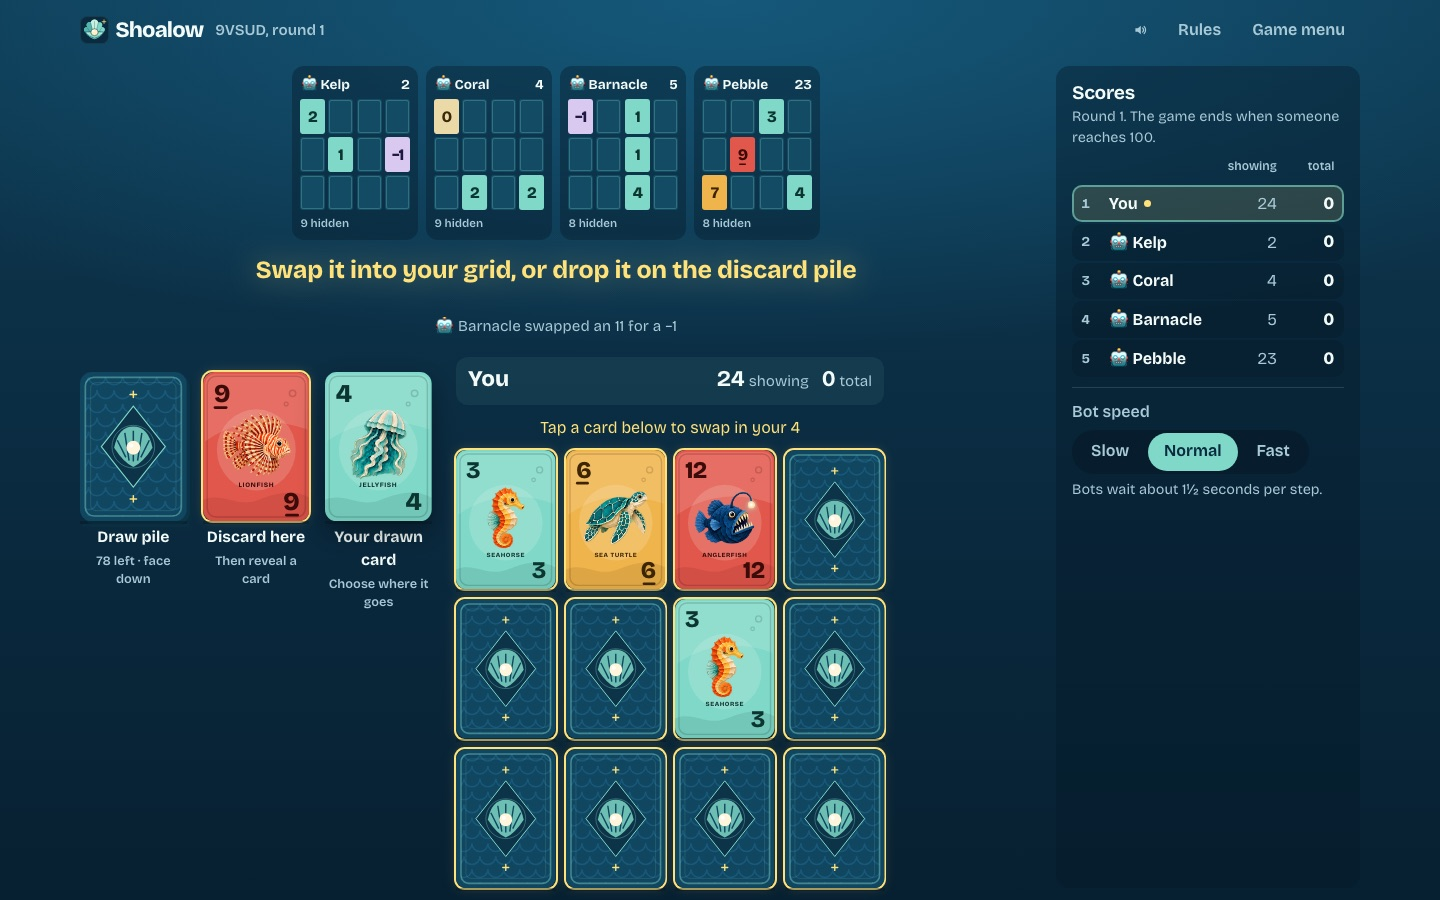
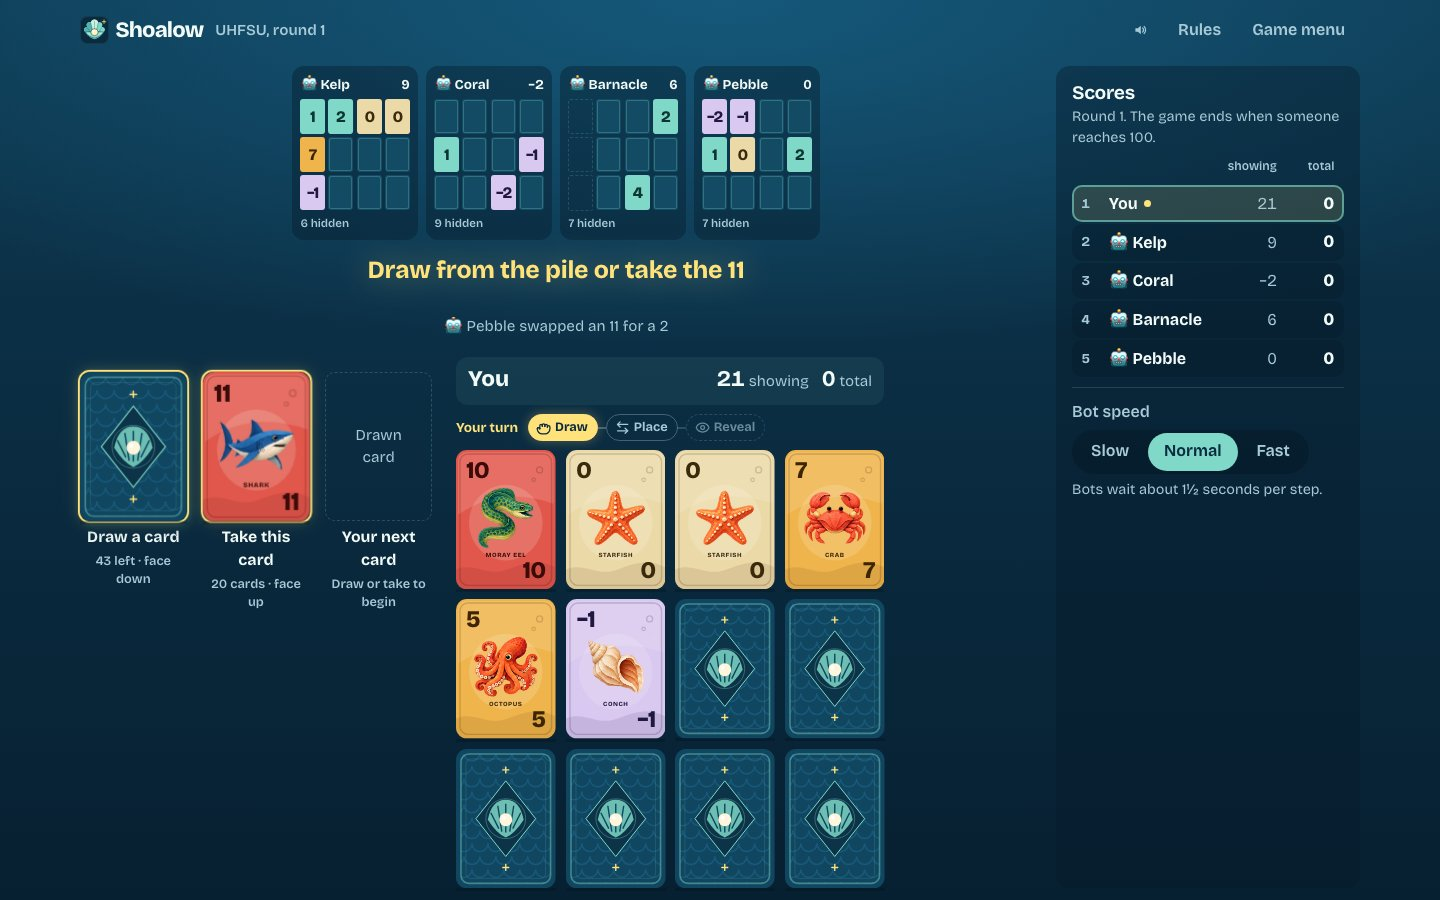
build: retake README screenshots from a real game
`mise run screenshots` starts the server on a temporary data directory,
sits down with bots and plays until a lively moment on your turn. It
shoots the table in Chromium and on an iPhone in WebKit, plus the
lobby's house rules and the first cards. The screenshots now show the
turn steps, play hints and pile counts added since launch.

diff --git a/apps/web/scripts/screenshots.ts b/apps/web/scripts/screenshots.ts
@@ -1,0 +1,127 @@
+/**
+ * Takes the README's screenshots from a real game: starts the server on a temporary data
+ * directory, sits down with a few bots and plays until a lively moment on your turn. The
+ * table is shot in Chromium on a computer and in WebKit on an iPhone, plus the lobby's house
+ * rules and the first cards. Run with `mise run screenshots`; it builds the client first.
+ */
+import { mkdtempSync, rmSync } from "node:fs";
+import { tmpdir } from "node:os";
+import { join } from "node:path";
+import { type Browser, chromium, devices, type Page, webkit } from "@playwright/test";
+import { createServer } from "../../server/src/app.ts";
+
+const out = (name: string) => new URL(`../../../docs/screenshots/${name}`, import.meta.url).pathname;
+const dataDir = mkdtempSync(join(tmpdir(), "shoalow-shots-"));
+const app = createServer({
+  port: 0,
+  hostname: "127.0.0.1",
+  dataDir,
+  staticDir: new URL("../dist", import.meta.url).pathname,
+  botDelayMs: 150,
+  limits: { messages: { burst: 10_000, perSecond: 10_000 } },
+});
+const base = app.url.origin;
+
+/** Creates a table with the given bots, waiting in the lobby. */
+async function sitDown(page: Page, bots: ("easy" | "normal")[]): Promise<void> {
+  await page.goto(base);
+  await page.getByLabel("Your name").fill("Anna");
+  await page.getByRole("button", { name: "Create a table" }).click();
+  for (const level of bots) await page.getByRole("button", { name: `Add ${level} bot` }).click();
+  await page.locator(".seats li").nth(bots.length).waitFor();
+}
+
+/**
+ * Plays sensible moves until it is our turn to choose a pile, at least `revealed` of our
+ * cards are face up and the table has had `turns` turns, so the shot shows a game under way.
+ */
+async function playUntilShot(page: Page, revealed: number, turns: number): Promise<void> {
+  const mine = page.locator("section.mine button.card.selectable");
+  const faceUp = page.locator("section.mine .card:not(.down)");
+  const hidden = page.locator("section.mine button.card.selectable.down");
+  let ourTurns = 0;
+  const nextRound = page.getByRole("button", { name: /^Start round/ });
+  for (let i = 0; i < 4000; i++) {
+    if (await nextRound.isVisible()) {
+      await nextRound.click().catch(() => {});
+      continue;
+    }
+    const prompt = (await page.locator(".prompt").textContent()) ?? "";
+    const choosing = /Draw from the pile or take the/.test(prompt);
+    const lastTurns = prompt.startsWith("Last turn");
+    if (choosing && !lastTurns && (await faceUp.count()) >= revealed && ourTurns >= turns) return;
+    if ((await mine.count()) === 0 && !choosing) {
+      await page.waitForTimeout(40);
+      continue;
+    }
+    if (choosing) {
+      ourTurns += 1;
+      await page
+        .locator('[data-anchor="deck"] button.card')
+        .click({ force: true, timeout: 1000 })
+        .catch(() => {});
+    } else {
+      // Reveal face-down cards until enough show, then swap into face-up ones to keep the round going.
+      const target = (await faceUp.count()) < revealed && (await hidden.count()) > 0 ? hidden.first() : mine.first();
+      await target.click({ force: true, timeout: 1000 }).catch(() => {});
+    }
+  }
+  throw new Error("never reached a good moment for the screenshot");
+}
+
+async function settle(page: Page): Promise<void> {
+  await page.mouse.move(1, 1);
+  await page.waitForTimeout(1500);
+}
+
+async function desktop(browser: Browser): Promise<void> {
+  const page = await browser.newPage({ viewport: { width: 1440, height: 900 } });
+  await sitDown(page, ["normal", "easy", "normal", "normal"]);
+  await page.locator("label", { hasText: "Counts" }).click();
+  await settle(page);
+  await page.locator("section.settings").screenshot({ path: out("house-rules.jpg"), type: "jpeg", quality: 85 });
+  await page.getByRole("button", { name: "Start with 5 players" }).click();
+  await playUntilShot(page, 6, 4);
+  await settle(page);
+  await page.screenshot({ path: out("table-desktop.jpg"), type: "jpeg", quality: 85 });
+
+  await page.goto(`${base}/cards`);
+  await settle(page);
+  const cards = page.locator("section.cards");
+  const box = await cards.boundingBox();
+  const first = await cards.locator(".card").first().boundingBox();
+  if (!box || !first) throw new Error("cards not laid out");
+  await page.screenshot({
+    path: out("cards.jpg"),
+    type: "jpeg",
+    quality: 85,
+    clip: { x: box.x, y: box.y, width: box.width, height: first.height },
+  });
+  await page.close();
+}
+
+async function iphone(browser: Browser): Promise<void> {
+  const context = await browser.newContext({ ...devices["iPhone 15"], deviceScaleFactor: 2 });
+  const page = await context.newPage();
+  await sitDown(page, ["normal", "easy", "normal"]);
+  await page.getByRole("button", { name: "Start with 4 players" }).click();
+  await playUntilShot(page, 6, 4);
+  await settle(page);
+  await page.screenshot({ path: out("table-iphone.jpg"), type: "jpeg", quality: 85 });
+  await context.close();
+}
+
+const browsers: Browser[] = [];
+try {
+  const chrome = await chromium.launch();
+  browsers.push(chrome);
+  await desktop(chrome);
+  const safari = await webkit.launch();
+  browsers.push(safari);
+  await iphone(safari);
+  console.log("Saved docs/screenshots/{table-desktop,table-iphone,house-rules,cards}.jpg");
+} finally {
+  for (const b of browsers) await b.close();
+  app.stop();
+  rmSync(dataDir, { recursive: true, force: true });
+}
